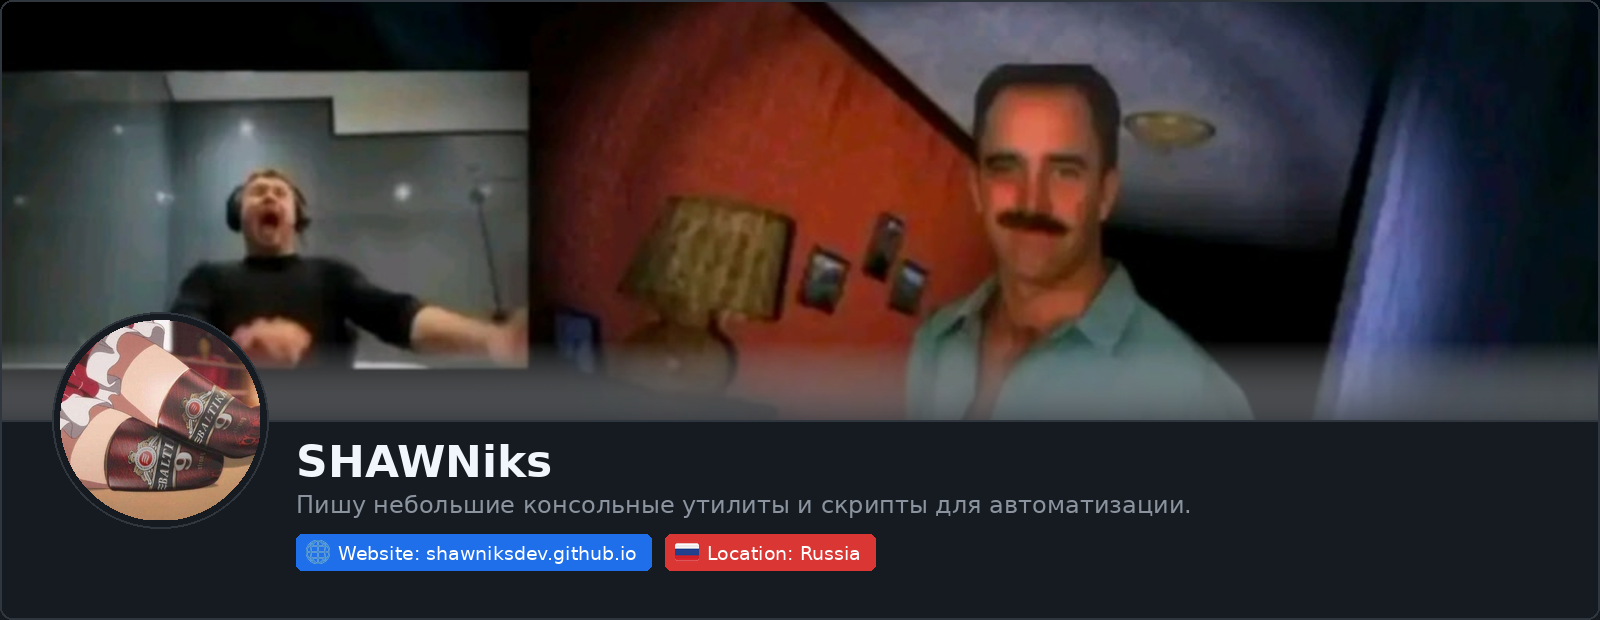
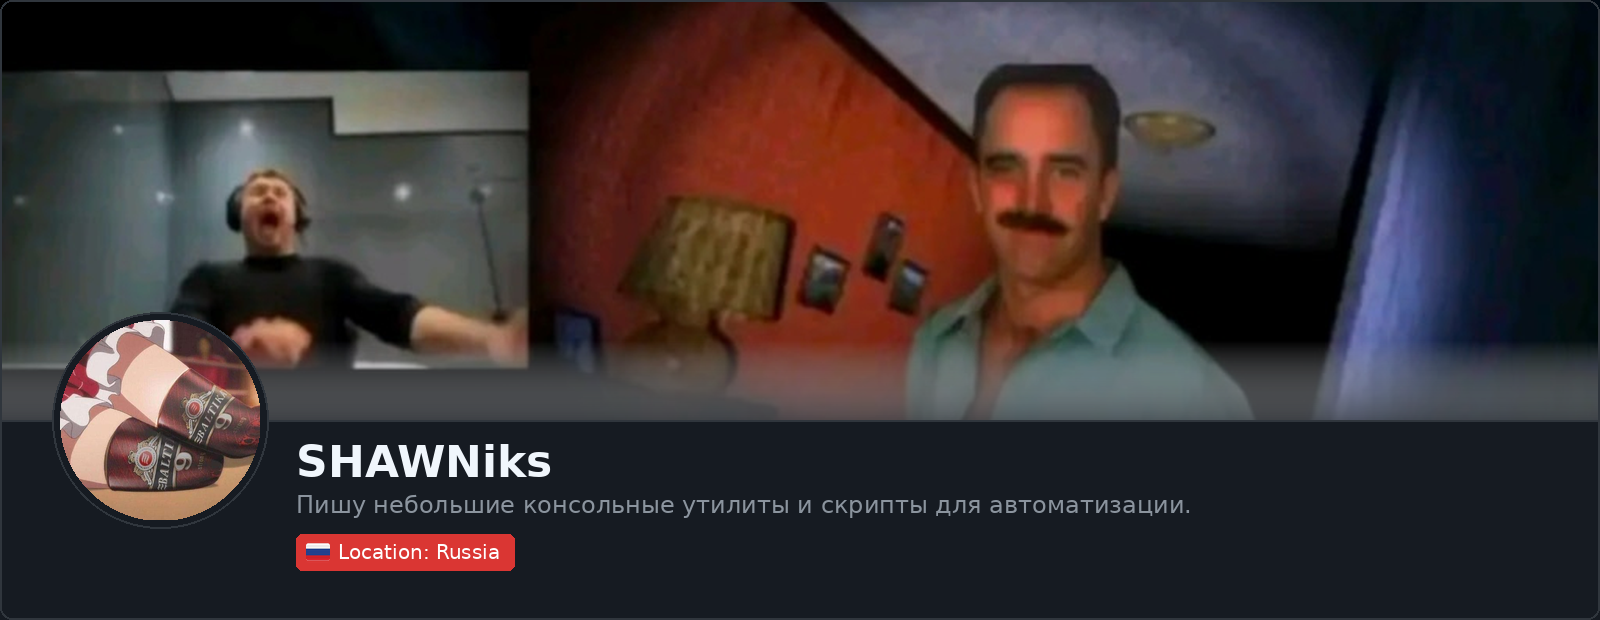
Fix stats query URL, remove website badge, keep only location

Changed region(s): [[0.1875, 0.8581, 0.5625, 0.9194]]

diff --git a/README.md b/README.md
@@ -30,7 +30,7 @@
 ### СТАТИСТИКА
 
 <p align="center">
-  <img src="https://github-readme-stats.vercel.app/api?username=SHAWNiksDev&locale=ru&show_icons=true&theme=tokyonight&border_radius=8&bg_color=161B22&border_color=30363D&hide_rank=truehide_rank=true&custom_title=%D0%A1%D1%82%D0%B0%D1%82%D0%B8%D1%81%D1%82%D0%B8%D0%BA%D0%B0custom_title=%D0%A1%D1%82%D0%B0%D1%82%D0%B8%D1%81%D1%82%D0%B8%D0%BA%D0%B0hide_rank=true&custom_title=%D0%A1%D1%82%D0%B0%D1%82%D0%B8%D1%81%D1%82%D0%B8%D0%BA%D0%B0include_all_commits=true" alt="Статистика" />
+  <img src="https://github-readme-stats.vercel.app/api?username=SHAWNiksDev&locale=ru&show_icons=true&theme=tokyonight&border_radius=8&bg_color=161B22&border_color=30363D&hide_rank=true&custom_title=%D0%A1%D1%82%D0%B0%D1%82%D0%B8%D1%81%D1%82%D0%B8%D0%BA%D0%B0&include_all_commits=true&hide=contribs" alt="Статистика" />
   &nbsp;&nbsp;
   <img src="https://github-readme-stats.vercel.app/api/top-langs/?username=SHAWNiksDev&locale=ru&layout=compact&theme=tokyonight&border_radius=8&bg_color=161B22&border_color=30363D&custom_title=%D0%AF%D0%B7%D1%8B%D0%BA%D0%B8" alt="Языки" />
 </p>
@@ -72,7 +72,7 @@
   ### STATS
 
   <p align="center">
-    <img src="https://github-readme-stats.vercel.app/api?username=SHAWNiksDev&show_icons=true&theme=tokyonight&border_radius=8&bg_color=161B22&border_color=30363D&hide_rank=true" alt="Stats" />
+    <img src="https://github-readme-stats.vercel.app/api?username=SHAWNiksDev&show_icons=true&theme=tokyonight&border_radius=8&bg_color=161B22&border_color=30363D&hide_rank=true&include_all_commits=true&hide=contribs" alt="Stats" />
     &nbsp;&nbsp;
     <img src="https://github-readme-stats.vercel.app/api/top-langs/?username=SHAWNiksDev&layout=compact&theme=tokyonight&border_radius=8&bg_color=161B22&border_color=30363D" alt="Languages" />
   </p>

diff --git a/README.en.md b/README.en.md
@@ -30,7 +30,7 @@
 ### STATS
 
 <p align="center">
-  <img src="https://github-readme-stats.vercel.app/api?username=SHAWNiksDev&show_icons=true&theme=tokyonight&border_radius=8&bg_color=161B22&border_color=30363D&hide_rank=truehide_rank=trueinclude_all_commits=true" alt="Stats" />
+  <img src="https://github-readme-stats.vercel.app/api?username=SHAWNiksDev&show_icons=true&theme=tokyonight&border_radius=8&bg_color=161B22&border_color=30363D&hide_rank=true&include_all_commits=true&hide=contribs" alt="Stats" />
   &nbsp;&nbsp;
   <img src="https://github-readme-stats.vercel.app/api/top-langs/?username=SHAWNiksDev&layout=compact&theme=tokyonight&border_radius=8&bg_color=161B22&border_color=30363D" alt="Languages" />
 </p>
